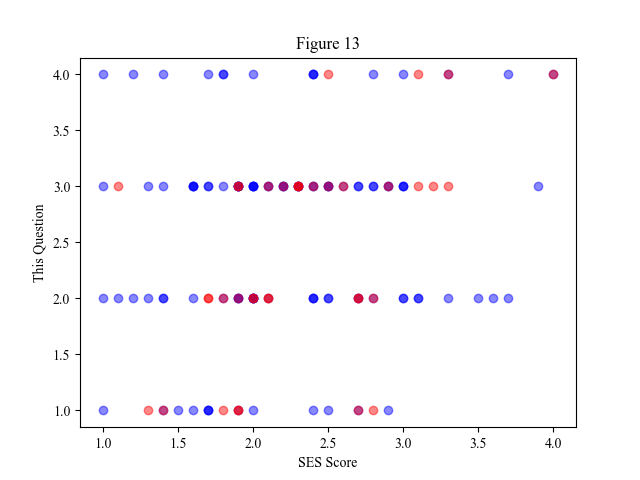
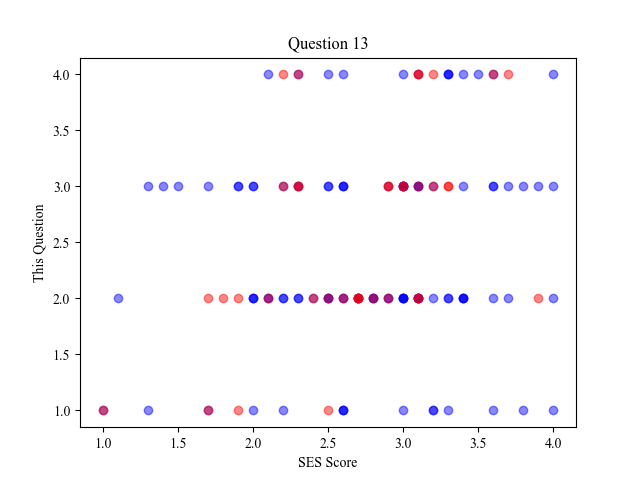
fix: reverse scored

diff --git a/run.py b/run.py
@@ -1,5 +1,7 @@
 import pandas as pd
 import matplotlib.pyplot as plt
+import scipy
+import scipy.stats
 file = r'goodorder.xlsx'
 df = pd.read_excel(file, sheet_name='Sheet1', header=0)
 print('head!!', df.head(0))
@@ -45,7 +47,7 @@ for i in range(L, R + 1):
   user = {'gender': row[1], 'grade': row[2]}
   for j in range(3, 22 + 1):
     key = data[0][j]
-    user[conv[key][1]] = row[j]
+    user[conv[key][1]] = 5 - row[j] # reverse
   users.append(user)
   del row
   del user
@@ -98,10 +100,17 @@ def kendall_tau_c(x, y):
   return sum * 2 / n / (n - 1)
 
 report = open('./report/report.txt', 'w', encoding='utf-8')
-report.write('male count = {}\n'.format(len(males)))
-report.write('female count = {}\n'.format(len(females)))
-report.write('male rosenberg ave = {}\n'.format(sum_over(males, rosenberg) / len(males) / 10))
-report.write('female rosenberg ave = {}\n'.format(sum_over(females, rosenberg) / len(females) / 10))
+# report.write('male count = {}\n'.format(len(males)))
+# report.write('female count = {}\n'.format(len(females)))
+# report.write('male rosenberg ave = {}\n'.format(sum_over(males, rosenberg) / len(males) / 10))
+# report.write('female rosenberg ave = {}\n'.format(sum_over(females, rosenberg) / len(females) / 10))
+report.write('strongly agree=4, agree=3, disagree=2, strongly disagree=1\n')
+report.write('answers to Q.3.10.9.5.8 are inverted when calculating RSES score\n')
+report.write('but they are displayed as they originally were in the following analysis\n')
+
+def describe(a):
+  n, minmax, mean, var, skew, kurt = scipy.stats.describe(a)
+  report.write('n = {}, minmax = {}, mean = {}, standard deviation = {}\n'.format(n, minmax, mean, var**0.5))
 
 # consider the following questions
 
@@ -115,8 +124,15 @@ def extract(users):
     score.append(user[i])
   return ses, score
 
-import scipy
-import scipy.stats
+i = 1
+ses, score = extract(males)
+describe(ses)
+ses, score = extract(females)
+describe(ses)
+ses, score = extract(users)
+describe(ses)
+
+
 
 for i in range(1, 20 + 1):
   report.write('Question #{}: {}\n'.format(i, conv[revmap[i]][0]))
@@ -124,28 +140,28 @@ for i in range(1, 20 + 1):
   ses, score = extract(males)
   plt.scatter(ses, score, color='#0000ff77')
   report.write('male relevance = {}\n'.format(scipy.stats.kendalltau(ses, score)))
-  report.write('mean = {}\n'.format(sum(score) / len(score)))
+  describe(score)
 
   ses, score = extract(females)
   plt.scatter(ses, score, color='#ff000077')
   report.write('female relevance = {}\n'.format(scipy.stats.kendalltau(ses, score)))
-  report.write('mean = {}\n'.format(sum(score) / len(score)))
+  describe(score)
 
 
   # plt.scatter(ses, score, color='r', alpha=0.5)
   ses, score = extract(users)
   report.write('overall relevance = {}\n'.format(scipy.stats.kendalltau(ses, score)))
-  report.write('mean = {}\n'.format(sum(score) / len(score)))
+  describe(score)
 
   plt.xlabel('SES Score')
   plt.ylabel('This Question')
-  plt.rcParams['font.sans-serif'] = ['SimHei']
+  plt.rcParams['font.sans-serif'] = ['SimSun']
   plt.rcParams['axes.unicode_minus'] = False
   plt.title(str(i) + '.' + conv[revmap[i]][0])
   # plt.savefig('./report/{}cn.png'.format(i))
   plt.rcParams['font.sans-serif'] = ['Times New Roman']
   plt.rcParams['axes.unicode_minus'] = True
-  plt.title('Figure {}'.format(i))
+  plt.title('Question {}'.format(i))
   plt.savefig('./report/{}en.png'.format(i))
   print(i, 'done')
   # plt.show()
